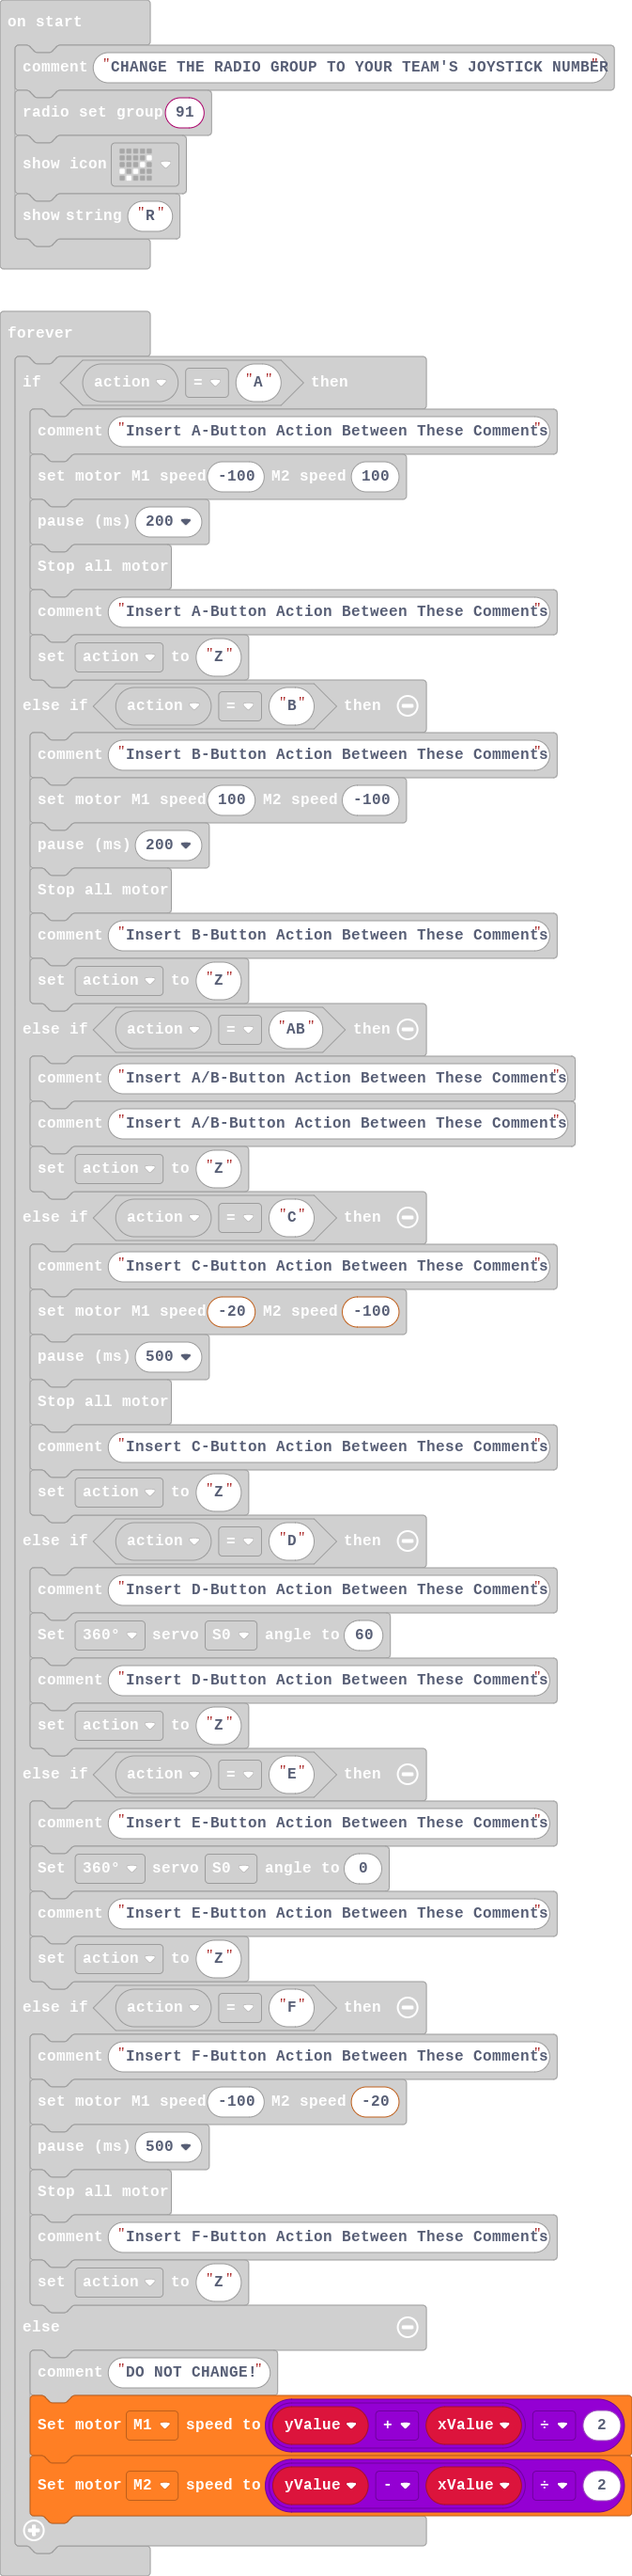
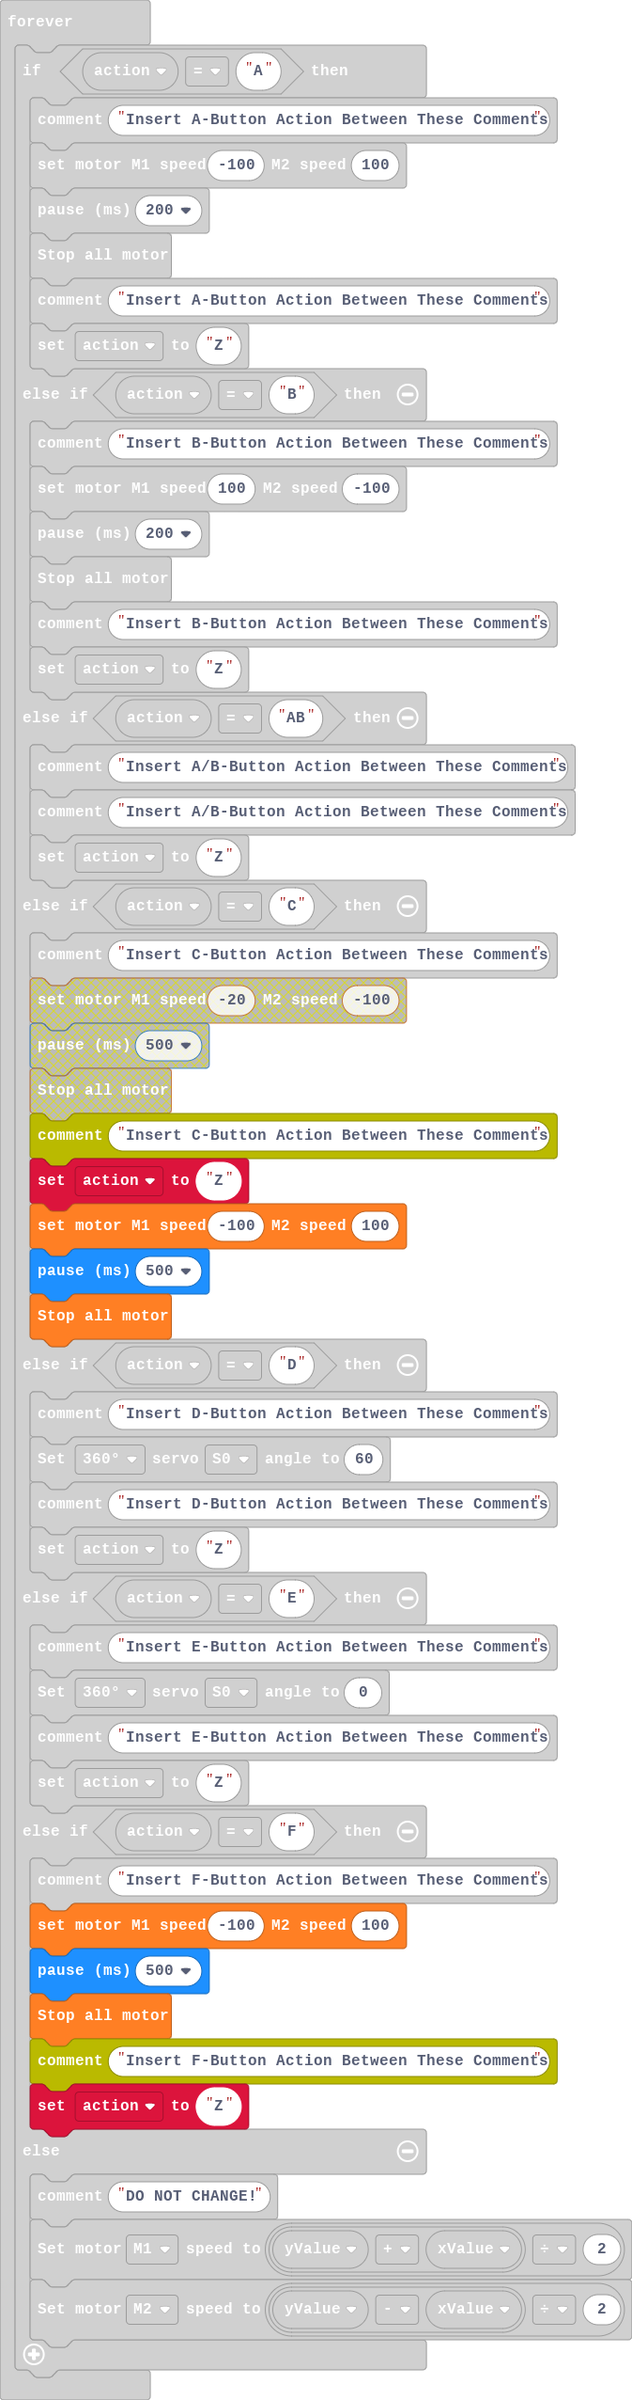
Update main.blocks, main.ts

diff --git a/main.ts b/main.ts
@@ -56,7 +56,7 @@ basic.forever(function () {
         action = "Z"
     } else if (action == "C") {
         comment.comment("Insert C-Button Action Between These Comments")
-        wuKong.setAllMotor(-20, -100)
+        wuKong.setAllMotor(-100, 100)
         basic.pause(500)
         wuKong.stopAllMotor()
         comment.comment("Insert C-Button Action Between These Comments")
@@ -73,7 +73,7 @@ basic.forever(function () {
         action = "Z"
     } else if (action == "F") {
         comment.comment("Insert F-Button Action Between These Comments")
-        wuKong.setAllMotor(-100, -20)
+        wuKong.setAllMotor(-100, 100)
         basic.pause(500)
         wuKong.stopAllMotor()
         comment.comment("Insert F-Button Action Between These Comments")
